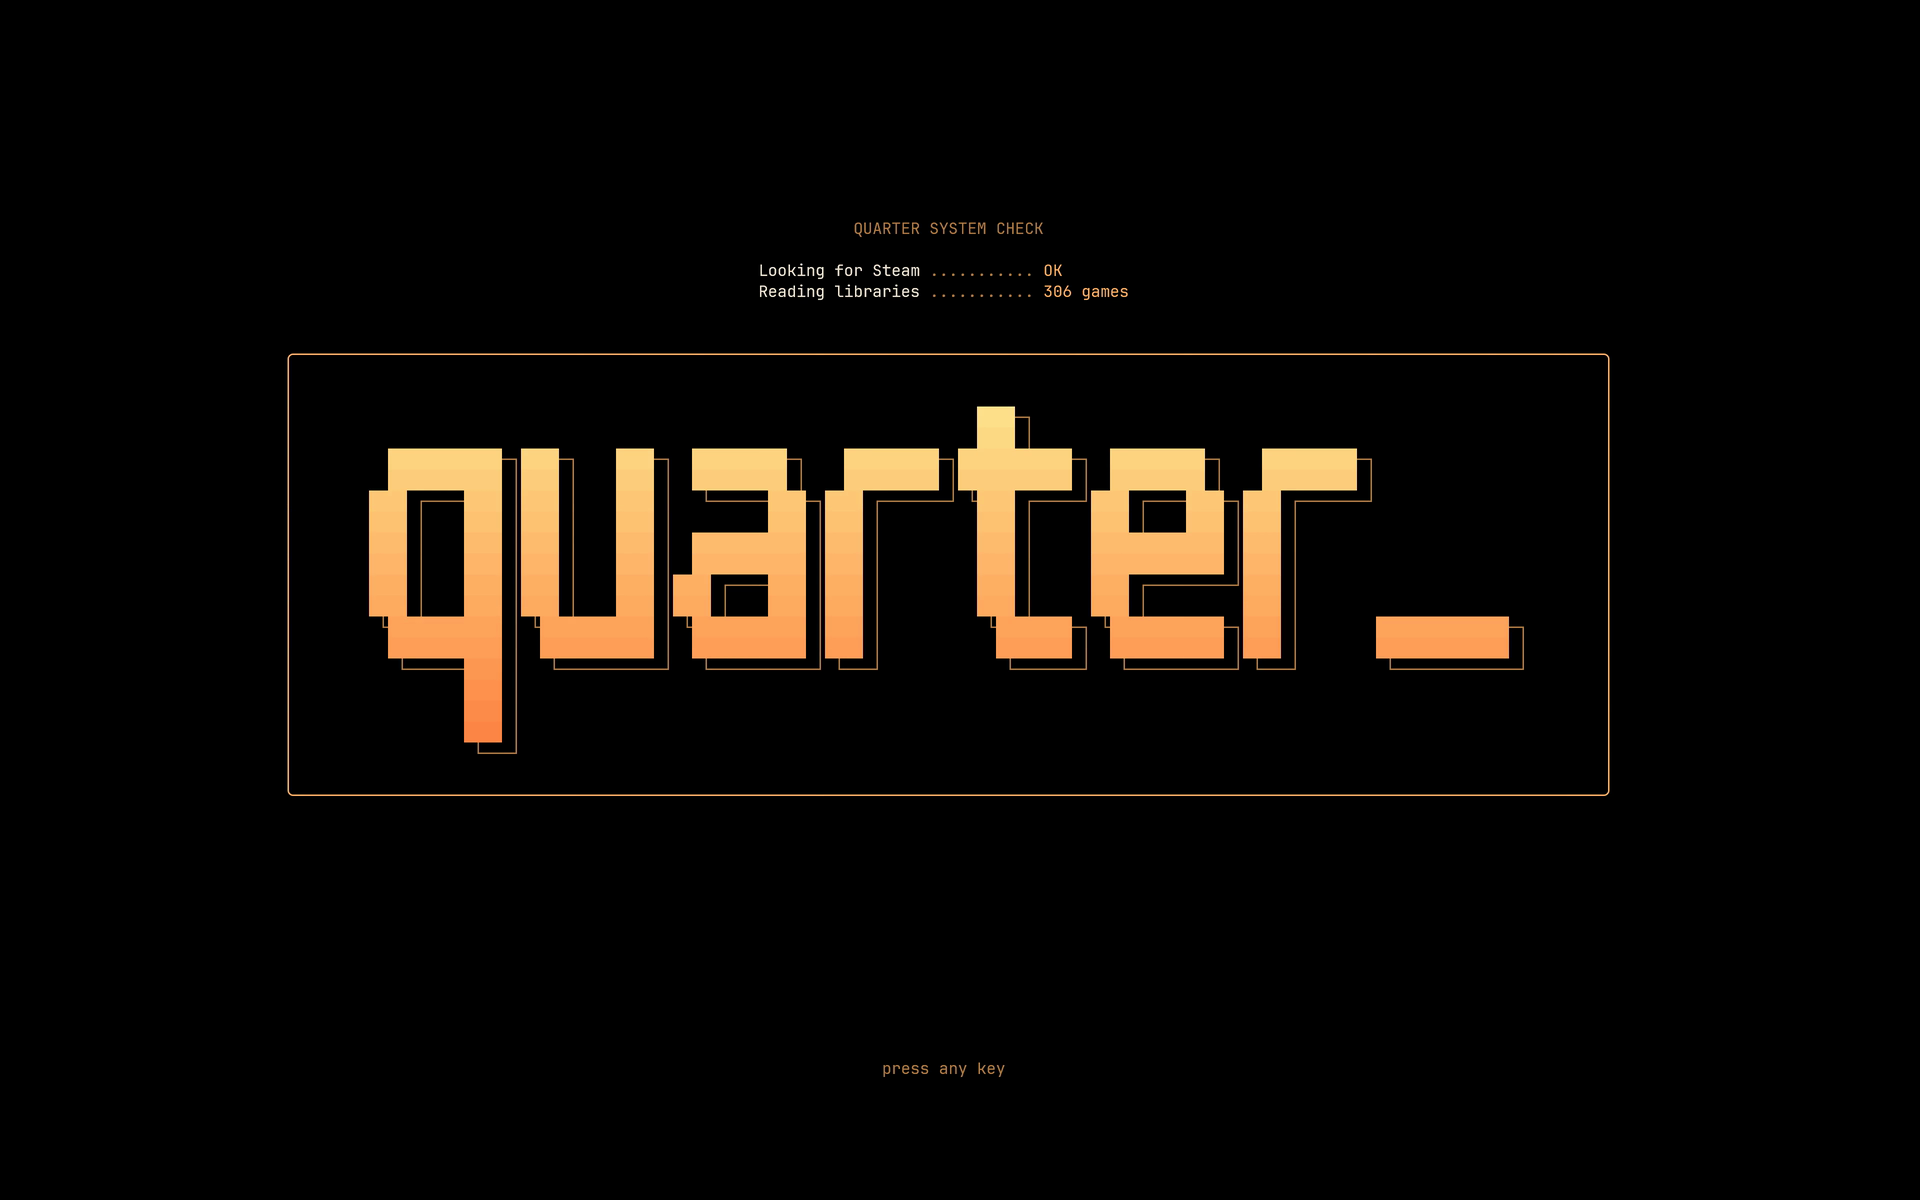
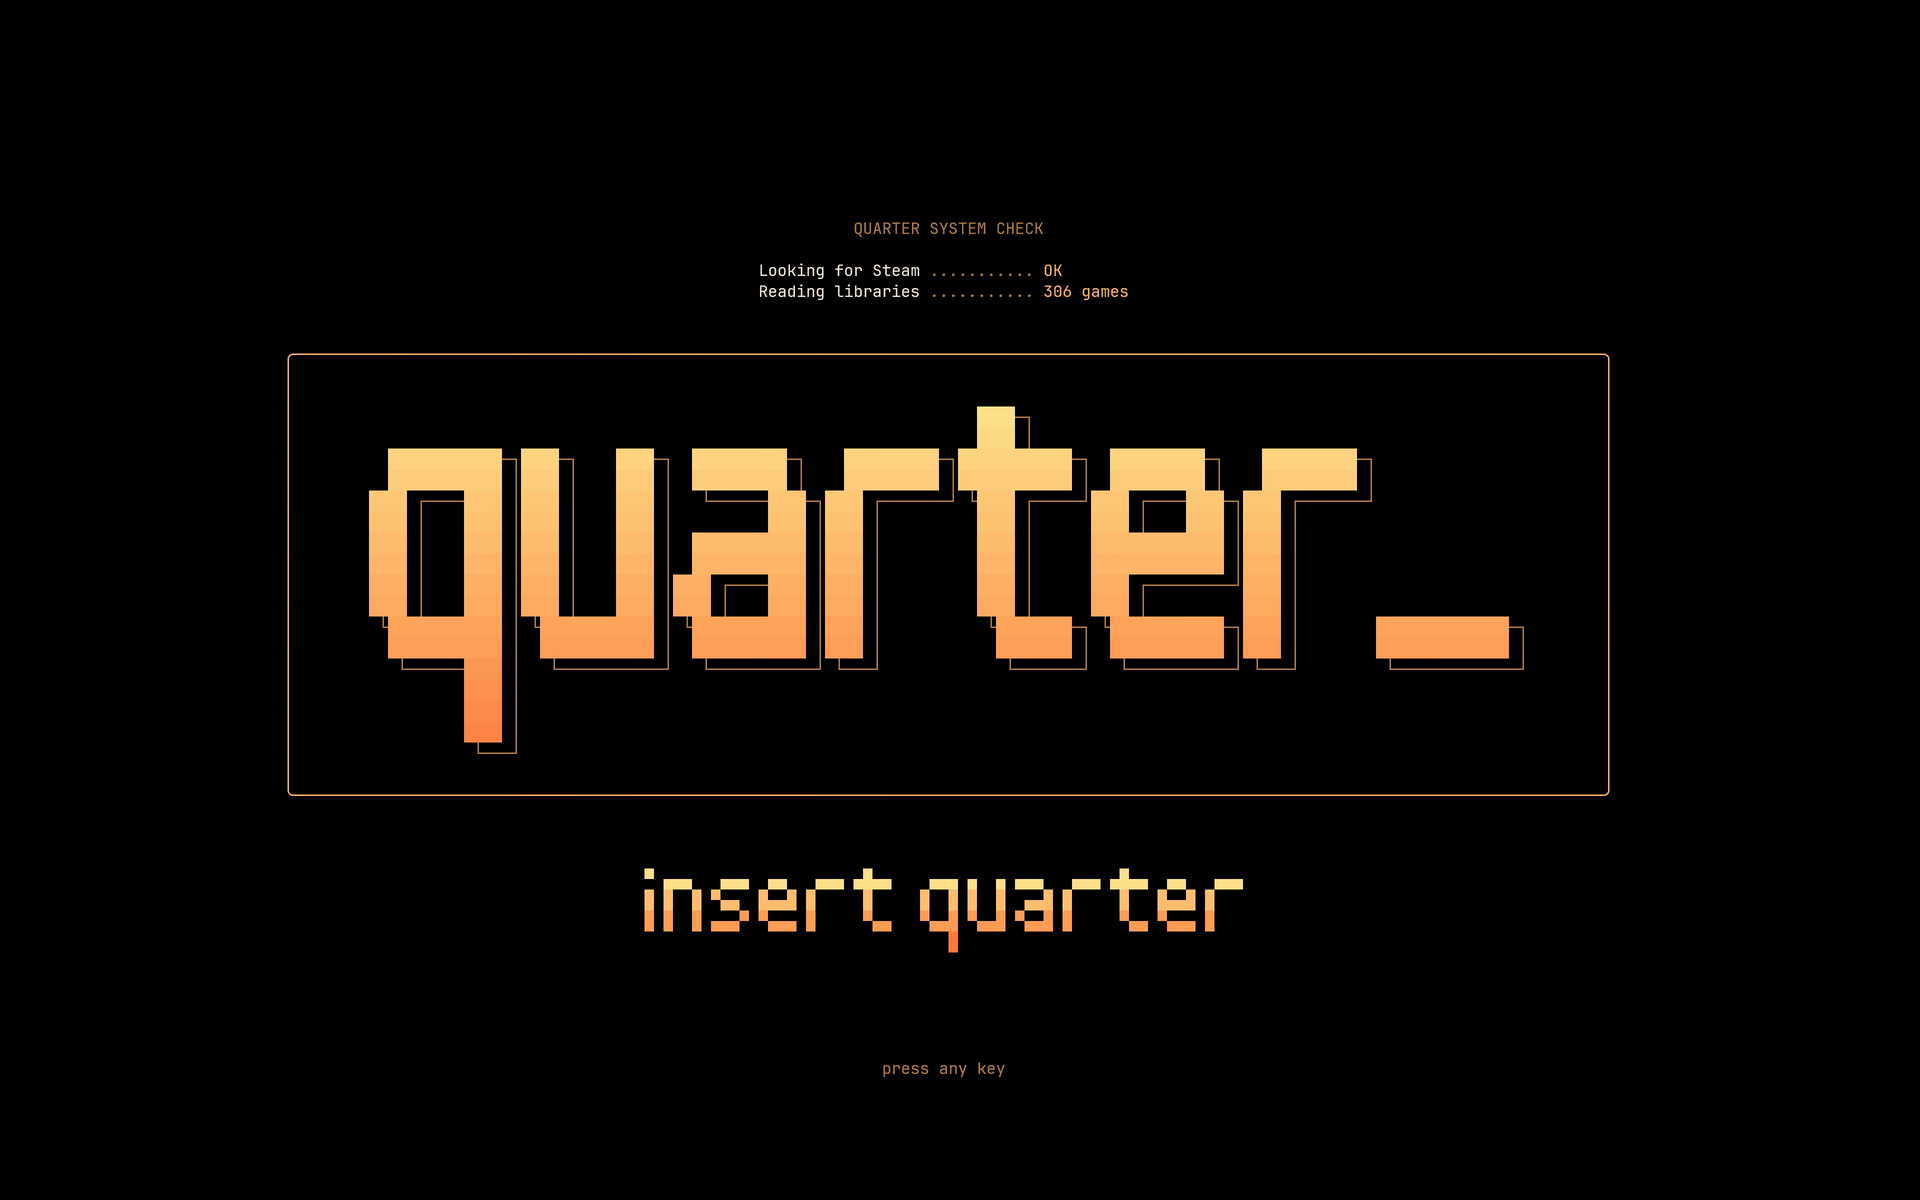
docs: the README tour becomes four short GIFs in a grid, and the start screen shows insert quarter lit.

Changed region(s): [[0.3125, 0.7092, 0.6562, 0.8017]]

diff --git a/README.md b/README.md
@@ -17,6 +17,8 @@
 
 Quarter sits on top of the Steam client you already have. It reads your library from Steam's own files and hands every action back to Steam, so there is no login, no password and nothing that touches your account. Steam still does the downloads, updates, cloud saves and overlay.
 
+<img src="docs/media/start-screen.png" alt="Quarter's start screen: the quarter_ logo, the system check finding Steam and 306 games, and insert quarter" width="100%">
+
 ## Features
 
 - **Your whole library in one list:** installed games and the ones you own but haven't installed, with playtime, last played and achievements.
@@ -31,43 +33,28 @@ Quarter sits on top of the Steam client you already have. It reads your library 
 
 ## A quick tour
 
-### Insert a quarter
-
-Quarter opens with an arcade intro, checks for Steam, reads your libraries and waits for a key.
-
-<img src="docs/media/start-screen.png" alt="The start screen: the quarter_ logo, Quarter's system check finding Steam and 306 games, and press any key" width="100%">
-
-### Your whole library
-
-Every game you own in one list, with its playtime and last played. The selected game's logo and details sit beside it.
-
-<img src="docs/media/library.png" alt="The main screen: the game list on the left, the selected game's logo and details pane on the right" width="100%">
-
-### Search as you type
-
-Press `/` and type. The list narrows with every letter, and the logo and details follow the game on top.
-
-<img src="docs/media/search.gif" alt="Typing wreck after / narrows the list to Wreckfest, with its logo and details" width="100%">
-
-### Sort and filter, one key each
-
-`p` sorts by playtime, and `tab` steps through All, Installed, Recent and Favourites.
-
-<img src="docs/media/sort-filter.gif" alt="p sorts the list by playtime, then tab moves the filter from All to Installed, Recent and Favourites" width="100%">
-
-### Your play history and HIGH SCORES
-
-`h` opens the ranking of what you played most, and `h` again the HIGH SCORES board with a calendar of played days. `tab` changes the period, from 7 days to all time.
-
-<img src="docs/media/history.gif" alt="h opens the most played ranking, then the HIGH SCORES board, and tab cycles the period" width="100%">
-
-<img src="docs/media/high-scores.png" alt="The HIGH SCORES board for all time: the top 8 games, a calendar of played days, total, longest session, streak and years" width="100%">
-
-### Press Enter
-
-Enter hands the game to Steam, and its row shows it running.
-
-<img src="docs/media/play.gif" alt="Enter on Rocket League: the row turns to running and the game's launch window appears" width="100%">
+<table>
+  <tr>
+    <td width="50%" valign="top">
+      <img src="docs/media/search.gif" alt="Typing wreck after / narrows the list to Wreckfest" width="100%"><br>
+      <b>Search as you type.</b> Press <code>/</code> and type; the list narrows with every letter.
+    </td>
+    <td width="50%" valign="top">
+      <img src="docs/media/sort-filter.gif" alt="p flips the sort by playtime, then tab moves the filter through Installed, Recent and Favourites" width="100%"><br>
+      <b>Sort and filter, one key each.</b> <code>p</code> sorts by playtime (again to flip), <code>tab</code> steps through the filters.
+    </td>
+  </tr>
+  <tr>
+    <td width="50%" valign="top">
+      <img src="docs/media/history.gif" alt="A game's playtime by period, then the HIGH SCORES board with its calendar, the period changing with tab" width="100%"><br>
+      <b>Your play history.</b> <code>h</code> shows a game's playtime by period, <code>h</code> again the HIGH SCORES board with a calendar of played days; <code>tab</code> changes the period.
+    </td>
+    <td width="50%" valign="top">
+      <img src="docs/media/play.gif" alt="Enter on Rocket League: the row turns to running and the game's launch window appears" width="100%"><br>
+      <b>Press Enter.</b> The game starts through Steam, and its row shows it running.
+    </td>
+  </tr>
+</table>
 
 ## Install
 
